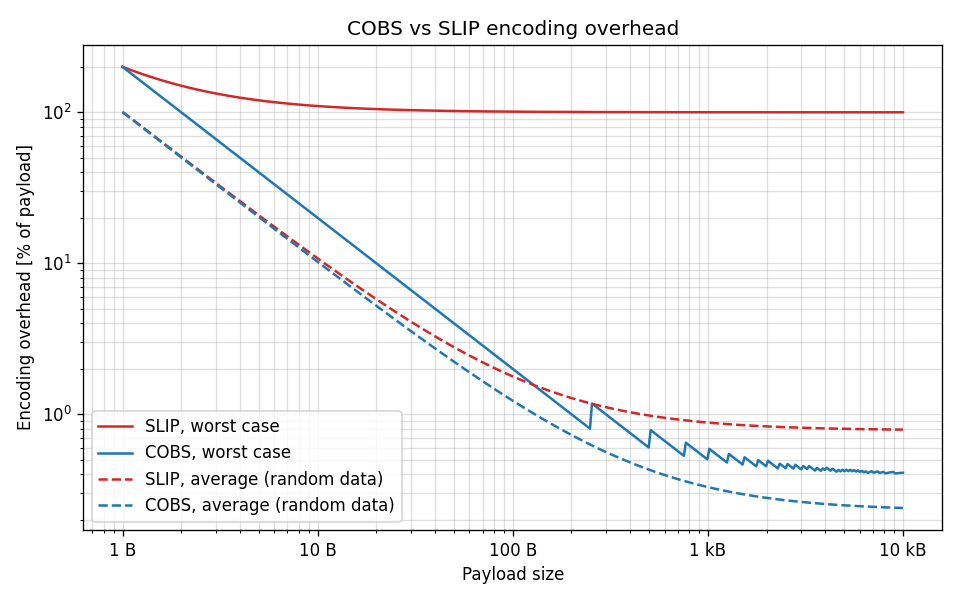
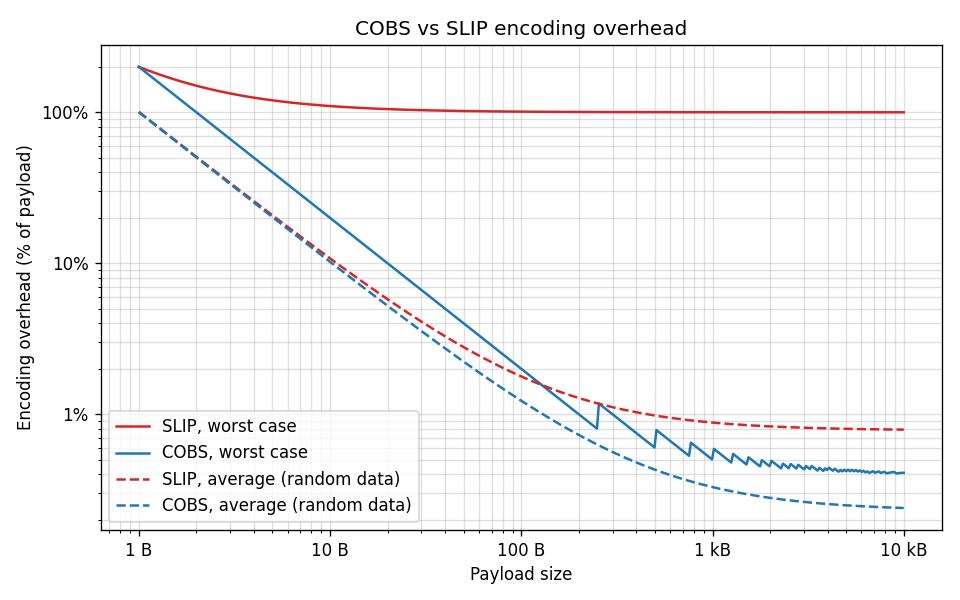
Change y-axis units on plot.

diff --git a/src/content/pages/programming/serialization-formats/consistent-overhead-byte-stuffing-cobs/_assets/main.py b/src/content/pages/programming/serialization-formats/consistent-overhead-byte-stuffing-cobs/_assets/main.py
@@ -14,6 +14,11 @@ def format_bytes(value, _pos):
     return f'{value / 1000:g} kB'
 
 
+def format_percent(value, _pos):
+    """Format an overhead value as a percentage, e.g. '1%', '10%', '100%'."""
+    return f'{value:g}%'
+
+
 def main():
     create_cobs_vs_slip_overhead()
 
@@ -43,8 +48,9 @@ def create_cobs_vs_slip_overhead():
     ax.set_xscale('log')
     ax.set_yscale('log')
     ax.xaxis.set_major_formatter(FuncFormatter(format_bytes))
+    ax.yaxis.set_major_formatter(FuncFormatter(format_percent))
     ax.set_xlabel('Payload size')
-    ax.set_ylabel('Encoding overhead [% of payload]')
+    ax.set_ylabel('Encoding overhead (% of payload)')
     ax.set_title('COBS vs SLIP encoding overhead')
     ax.grid(True, which='both', alpha=0.4)
     ax.legend()